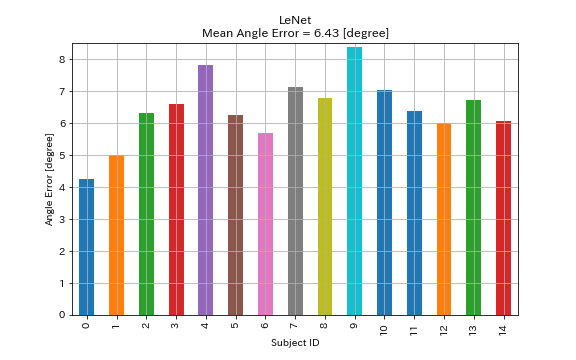
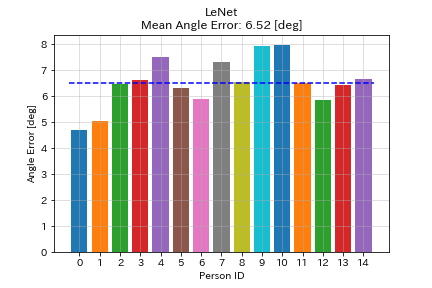
Update

diff --git a/README.md b/README.md
@@ -48,8 +48,8 @@ default parameters.
 
 | Model           | Mean Test Angle Error [degree] | Training Time |
 |:----------------|:------------------------------:|--------------:|
-| LeNet           |              6.43              |  3.5 s/epoch  |
-| ResNet-preact-8 |              5.78              |   7 s/epoch   |
+| LeNet           |              6.52              |  3.5 s/epoch  |
+| ResNet-preact-8 |              5.73              |   7 s/epoch   |
 
 The training time is the value when using GTX 1080Ti.
 
